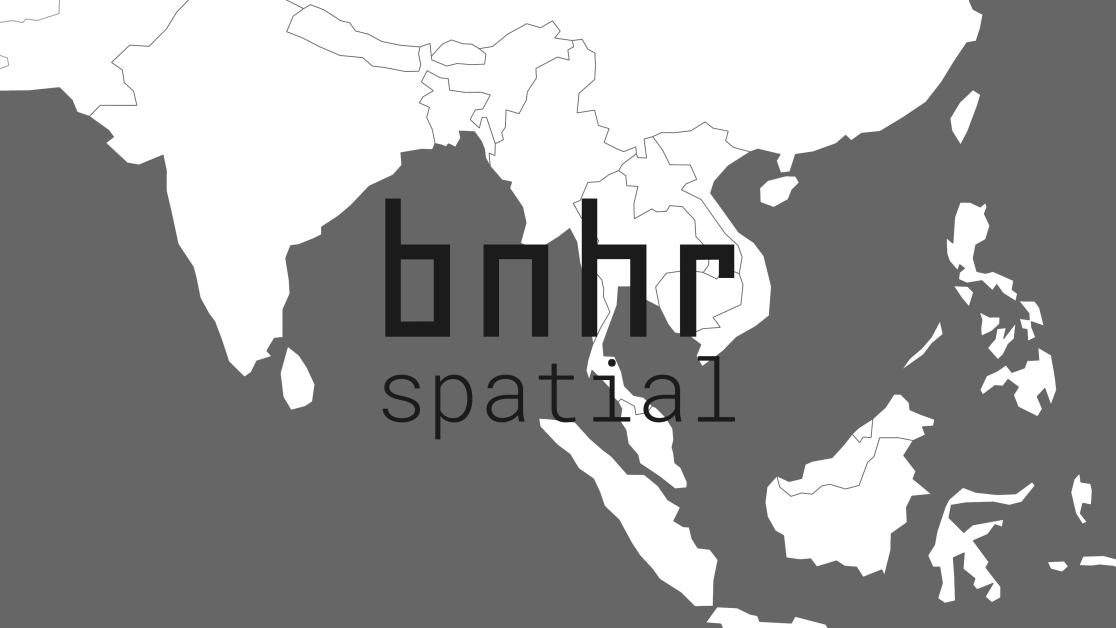
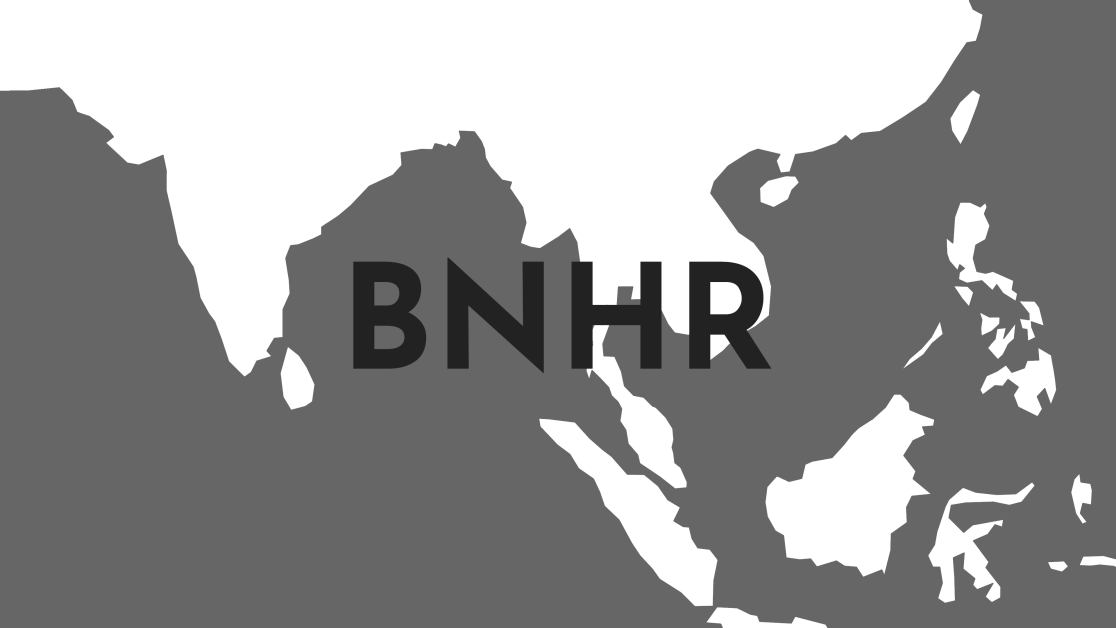
added new images

diff --git a/_posts/2018-01-03-learn-cartography-and-styling-in-qgis-part-1.md b/_posts/2018-01-03-learn-cartography-and-styling-in-qgis-part-1.md
@@ -7,8 +7,8 @@ pinned: false
 comments: true
 og_type: article
 image:
-  facebook: /media/bnhr-qgis-bball.png
-  twitter: /media/bnhr-qgis-bball.png
+  facebook: /media/site/img/BNHR-bg.png
+  twitter: /media/site/img/BNHR-bg.png
 ---
 
 Last semester, I took up a Spatial Visualization course as part of my graduate studies. For my final project in class, I decided to create visualizations of shoting in basketball using GIS (mostly QGIS). Some of the visualizations that I created are shown below and include a shot chart, hot zones map, range map, firefly map, 2D binning, and 3D binning visualizations.

diff --git a/_posts/2017-07-28-foss4g-how-to-get-zonal-statistics-in-qgis-and-grass-using-a-polygon-layer-as-zones.md b/_posts/2017-07-28-foss4g-how-to-get-zonal-statistics-in-qgis-and-grass-using-a-polygon-layer-as-zones.md
@@ -7,8 +7,8 @@ pinned: false
 comments: true
 og_type: article
 image:
-  facebook: /media/foss4g-howto.png
-  twitter: /media/foss4g-howto-400px.png
+  facebook: /media/site/img/BNHR-bg.png
+  twitter: /media/site/img/BNHR-bg.png
 ---
 
 In the [previous entry](https://benhur07b.github.io/2017/07/26/foss4g-how-to-sample-raster-or-vector-values-at-points-in-qgis-and-grass.html), we learned how to sample raster and vector values at points. In this post, we'll take a look at how we can compute for zonal statistics using a polygon layer in QGIS and GRASS.

diff --git a/_posts/2018-03-01-learn-cartography-and-styling-in-qgis-part-2.md b/_posts/2018-03-01-learn-cartography-and-styling-in-qgis-part-2.md
@@ -7,8 +7,8 @@ pinned: false
 comments: true
 og_type: article
 image:
-  facebook: /media/bnhr-qgis-bball.png
-  twitter: /media/bnhr-qgis-bball.png
+  facebook: /media/site/img/BNHR-bg.png
+  twitter: /media/site/img/BNHR-bg.png
 ---
 
 In the [previous post](https://benhur07b.github.io/2018/01/03/learn-cartography-and-styling-in-qgis-part-1.html), we created shot charts using Rule-based symbology in QGIS. In this post, we'll take a look at how we can turn those shot charts into printable maps like this:

diff --git a/_posts/2018-08-03-pagpapakilala-sa-qgis-ikalawang-parte.md b/_posts/2018-08-03-pagpapakilala-sa-qgis-ikalawang-parte.md
@@ -7,8 +7,8 @@ pinned: false
 comments: true
 og_type: article
 image:
-    facebook: /media/bnhr-600-bg.png
-    twitter: /media/bnhr-600-bg.png
+    facebook: /media/site/img/BNHR-bg.png
+    twitter: /media/site/img/BNHR-bg.png
 ---
 
 Sa [huling lathala](https://benhur07b.github.io/2018/07/20/pagpapakilala-sa-qgis-unang-parte.html), tinalakay ang mas pangkalahatang konsepto ng GIS. Ngayon, tutungo na tayo sa pagtalakay ng QGIS.

diff --git a/_posts/2017-07-26-foss4g-how-to-sample-raster-or-vector-values-at-points-in-qgis-and-grass.md b/_posts/2017-07-26-foss4g-how-to-sample-raster-or-vector-values-at-points-in-qgis-and-grass.md
@@ -7,8 +7,8 @@ pinned: false
 comments: true
 og_type: article
 image:
-  facebook: /media/foss4g-howto.png
-  twitter: /media/foss4g-howto-400px.png
+  facebook: /media/site/img/BNHR-bg.png
+  twitter: /media/site/img/BNHR-bg.png
 ---
 
 Let's say we want to know the values of rasters and vectors at specific points in a point layer (e.g. household locations). How would we go about doing this in QGIS or GRASS?

diff --git a/_posts/2017-04-10-adding-images-to-the-gui-of-your-custom-qgis-plugin.md b/_posts/2017-04-10-adding-images-to-the-gui-of-your-custom-qgis-plugin.md
@@ -7,8 +7,8 @@ pinned: false
 comments: true
 og_type: article
 image:
-  facebook: /media/bnhr-600-bg.png
-  twitter: /media/bnhr-600-bg.png
+  facebook: /media/site/img/BNHR-bg.png
+  twitter: /media/site/img/BNHR-bg.png
 ---
 
 Sometimes we want or need to add images to our custom QGIS plugins, here's how you do it.

diff --git a/_posts/2019-02-21-tugma.md b/_posts/2019-02-21-tugma.md
@@ -7,8 +7,8 @@ pinned: false
 comments: true
 og_type: article
 image:
-    facebook:  /media/nan-600-bg.png
-    twitter: /media/nan-600-bg.png
+    facebook:  /media/site/img/NULL-bg.png
+    twitter: /media/site/img/NULL-bg.png
 ---
 
 Pagkat ang bukas mo at bukas ko <br>
